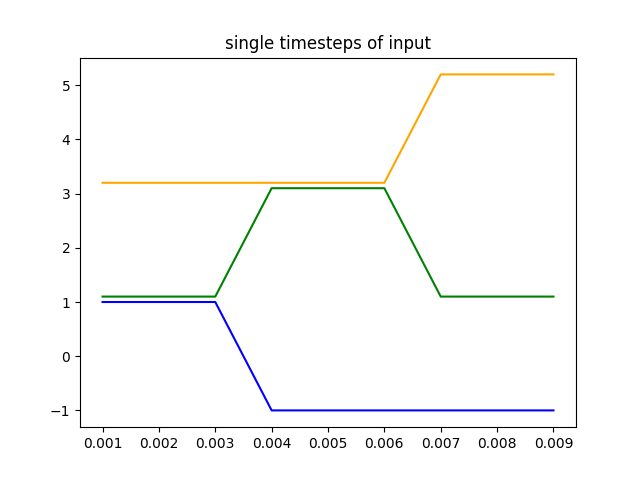
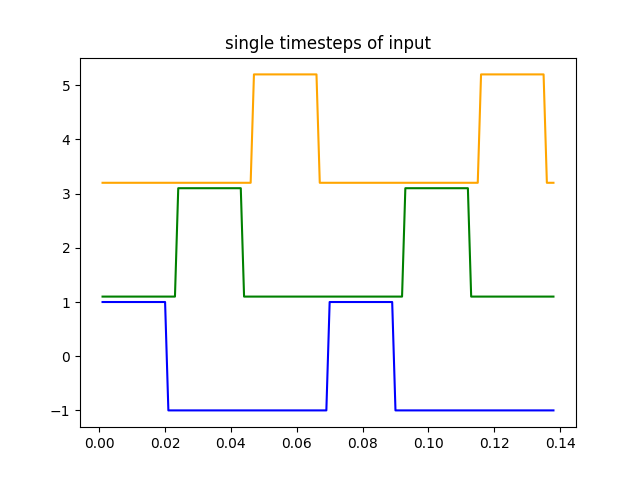
variable pulse length and pulse gap

diff --git a/three-layers-feedback.py b/three-layers-feedback.py
@@ -46,16 +46,18 @@ def preset_timing_plot():
 
     plt.savefig('fig/preset_timing_parameters/preset_timing_parmeters_pt_eq_'+str(pt)[0:4]+'.png')
 
-def phase_automata(driving_symbol='0', number_of_symbols=3, id_of_starting_symbol=0, timesteps=9,
-                   probability_of_transition=False):
-    code = np.zeros((number_of_symbols, timesteps), dtype=float)
+def phase_automata_fractional_pulse(driving_symbol='0', number_of_symbols=3, id_of_starting_symbol=0, timesteps=9,
+                   probability_of_transition=False,pulse_length=100,pulse_gap=100):
+    code = np.zeros((number_of_symbols, timesteps*(pulse_length+pulse_gap)), dtype=float)
     code = code - 1
     state = id_of_starting_symbol
     i = 0
-    while i < timesteps:
+    while i < (timesteps*(pulse_length+pulse_gap)):
         u = True
         j = 0
+        print("i",i)
         while j < number_of_symbols:
+            print("j",j)
             if state == j and u:
                 mu, sigma = 1, 0.5  # mean and standard deviation
                 if probability_of_transition:
@@ -71,43 +73,55 @@ def phase_automata(driving_symbol='0', number_of_symbols=3, id_of_starting_symbo
                         state = id_of_starting_symbol
                         print("ILLEGAL DRIVING SYMBOL")
                     # print('passing to state ', state, 'driving symbol ', driving_symbol)
-                    code[j][i] = 1
+                    k = 0
+                    while k < pulse_length:
+                        print("k",k)
+                        code[j][i+k] = 1
+                        k += 1
+
+                    while k < (pulse_length+pulse_gap):
+                        print("k",k)
+                        code[j][i+k] = -1.0
+                        k += 1
                     u = False
                 else:
                     state = j
                     # print('staying in state', state)
             j += 1
-        i += 1
+        i += (pulse_length+pulse_gap)
     ending_state = state
     return code, ending_state
 
 
 reseed = 91332 #91323 #91280 #91274 # 91264 # 91254  # 91273
 good = False
-number_of_samples = 2
-ts = 3  # number of timesteps to hold a driving symbol constant for.
+number_of_samples = 12
+ts = 6  # number of possible transitions to hold a driving symbol constant for.
 pb = False
 pt = 3e-3 # seconds to present each step of input
-label_length = ts * 3 # In Timesteps, multiply by dt to get actual length of time
-padded_zeros = np.zeros((3, ts * 2), dtype=float)
+pulse_length = 20
+pulse_gap = 3
+label_length = ts * 3 * (pulse_length+pulse_gap)# In Timesteps, multiply by dt to get actual length of time
+padded_zeros = np.zeros((3, ts * 2 * (pulse_length+pulse_gap)), dtype=float)
 padded_zeros = padded_zeros - 1.0
 
 
 i = 1
 
-threeChannelsOF1, end_channel = phase_automata(driving_symbol="1", probability_of_transition=pb, timesteps=ts)
+threeChannelsOF1, end_channel = phase_automata_fractional_pulse(driving_symbol="1", probability_of_transition=pb, timesteps=ts,pulse_length=pulse_length,pulse_gap=pulse_gap)
 threeChannels1 = np.concatenate((threeChannelsOF1, padded_zeros), axis=1)
-threeChannelsOF0, end_channel0 = phase_automata(driving_symbol="0", probability_of_transition=pb, timesteps=ts)
+threeChannelsOF0, end_channel0 = phase_automata_fractional_pulse(driving_symbol="0", probability_of_transition=pb, timesteps=ts,pulse_length=pulse_length,pulse_gap=pulse_gap)
 threeChannels0 = np.concatenate((threeChannelsOF0, padded_zeros), axis=1)
 labels0 = np.zeros((label_length, 1), dtype=float)
 labels1 = np.ones((label_length, 1), dtype=float)
+
 bothLabels = np.concatenate((labels0, labels1), axis=0)
 bothPatterns = np.concatenate((threeChannels0, threeChannels1), axis=1)
 
 bitstring = "0111100001010000000111111101010101010011001100011100101010000111100000000000000000000000000000000000000000000000000000000000000000"
 plt.figure()
 plt.title("Input Pattern and Label Example ProbTran:"+str(pb)+" PaddedZeros:True")
-t = np.arange(ts*3*2)
+t = np.arange(ts*(pulse_gap+pulse_length)*3*2)
 plt.xlabel('ts (Timestep)' )
 plt.ylabel('Value')
 plt.plot(t,bothPatterns[0],color="blue",label="pattern C1")
@@ -120,8 +134,8 @@ plt.savefig("fig/input_pattern_example_probTran_"+str(pb)+"_padded_zeros_true.pn
 w = 0
 while i < number_of_samples:
     print(bitstring[w])
-    threeChannelsOF, end_channel = phase_automata(driving_symbol=bitstring[w], probability_of_transition=pb, 
-                                                                  timesteps=ts)
+    threeChannelsOF, end_channel = phase_automata_fractional_pulse(driving_symbol=bitstring[w], probability_of_transition=pb, 
+                                                                  timesteps=ts,pulse_length=pulse_length,pulse_gap=pulse_gap)
     threeChannels = np.concatenate((threeChannelsOF, padded_zeros), axis=1)
     if (bitstring[w] == "0"):
         labels0or1 = np.zeros((ts * 3, 1), dtype=float)
@@ -142,6 +156,8 @@ labels = bothLabels
 
 while not good:
     model = nengo.Network(label='Three Layers with feedback', seed=reseed)
+    sim = nengo.Simulator(model)
+    pt = sim.dt
     num_neurons_l1 = 4
     num_neurons_l2 = 6
     num_neurons_l3 = 2
@@ -260,7 +276,7 @@ while not good:
     plt.clf()
 
     plt.figure()
-    time_input_signal = t <= pt*ts
+    time_input_signal = t <= (pt*ts*(pulse_length+pulse_gap))
     plt.title("single timesteps of input")
     plt.plot(t[time_input_signal],sim.data[input_probe][time_input_signal][0: , 0:1], color="blue")
     plt.plot(t[time_input_signal],sim.data[input_probe][time_input_signal][0: , 1:2]+2.1, color="green")
